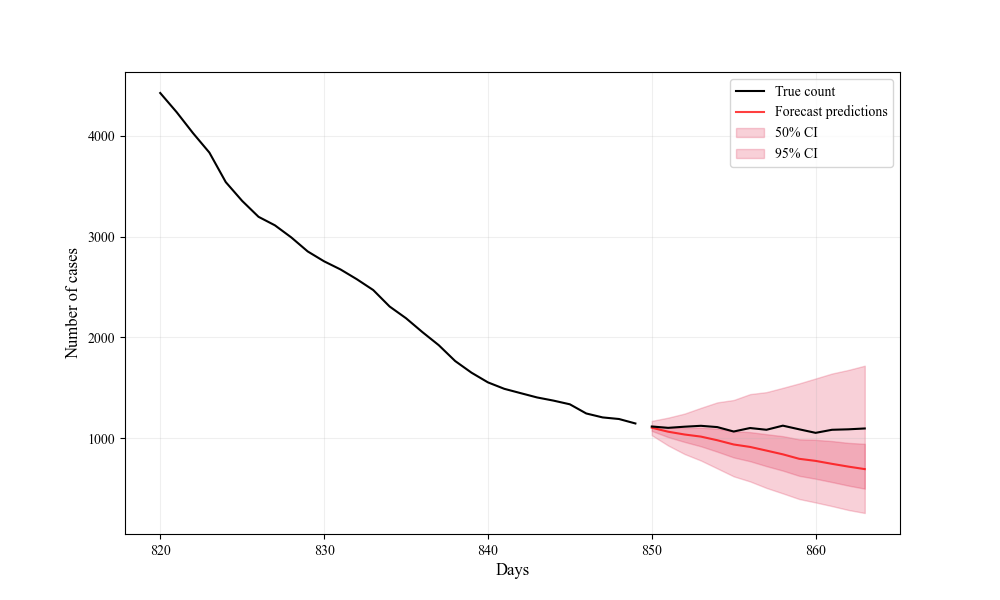
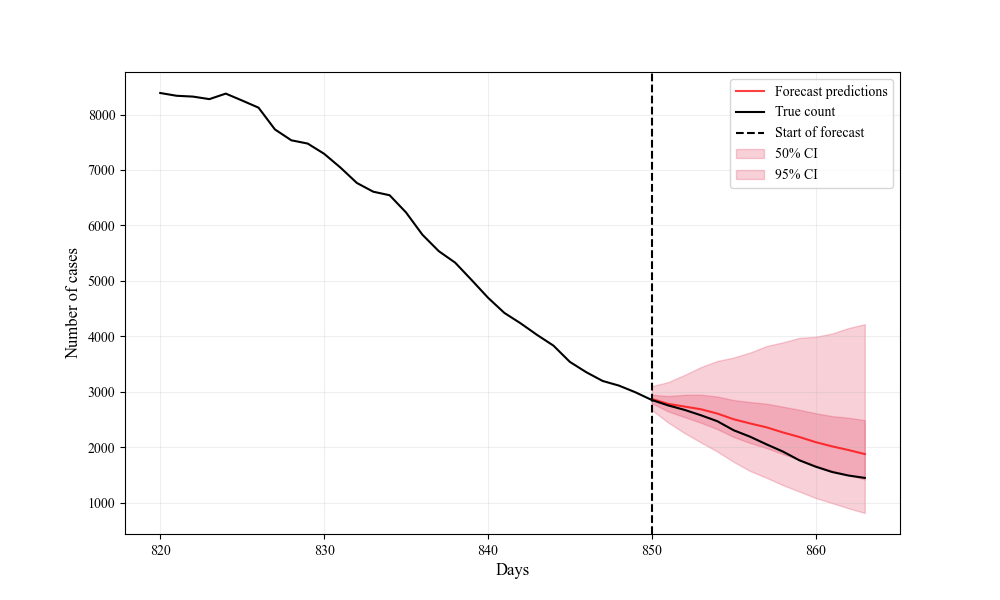
Implement percentage model

diff --git a/exploration/percentage_forecaster.py b/exploration/percentage_forecaster.py
@@ -142,6 +142,6 @@ forecaster.load_state_dict(torch.load(f".weights/weights-{PAST_UNITS}-{'week' if
 importlib.reload(forecastpnn.utils.plotting)
 from forecastpnn.utils.plotting import plot_confints_forecast_with_updated_inputs
 set_seeds(RANDOM_SEED)
-plot_confints_forecast_with_updated_inputs(dl, forecaster, weeks = WEEKS, idx=840, steps_ahead=STEPS_AHEAD)
+plot_confints_forecast_with_updated_inputs(dl, forecaster, weeks = WEEKS, idx=837, steps_ahead=STEPS_AHEAD)
 
 # %%
